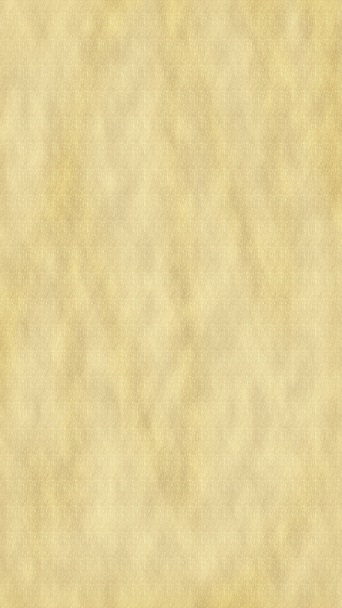
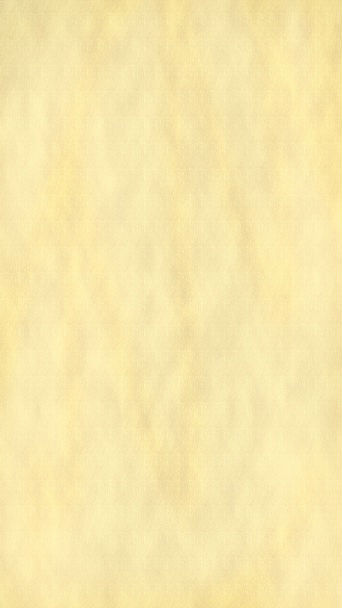
Match all buttons and lighten background

diff --git a/public_html/css/example/global.css b/public_html/css/example/global.css
@@ -13,7 +13,7 @@ body {
     -webkit-text-size-adjust:100%;
     -moz-text-size-adjust:100%;
     -ms-text-size-adjust:100%;
-	background-image: url("parchmentresize.jpg");
+	background-image: url("../../img/parchmentresize.jpg");
 	background-repeat: repeat;
 	background-position: center;
 	margin: 0 auto; 
@@ -474,7 +474,15 @@ div.textarea *{
    vertical-align: middle;
    margin: 2px 2px;
    }
-.but:hover {
+
+.but:disabled{
+   border-top-color: #5f4f1b;
+   background: #5f4f1b;
+   color: #ccc;
+
+}   
+   
+ .but:hover {
    border-top-color: #5f4f1b;
    background: #5f4f1b;
    color: #ccc;

diff --git a/public_html/inbox.php b/public_html/inbox.php
@@ -19,10 +19,10 @@
 		}else{
 			e.style.display = "block";
 		}
-		if(toggle.text != "[show]"){
-			toggle.text = "[show]";
+		if(toggle.text != "show"){
+			toggle.text = "show";
 		}else{
-			toggle.text = "[hide]";
+			toggle.text = "hide";
 			read($(toggle).parent().parent().attr("id"));
 		}
 	}
@@ -99,9 +99,9 @@
 	include "scripts/renderMsgList.php";	
 
 	if($_SESSION["username"]){
-		echo "<form method='GET' action='composemsg.php' style='display: inline; float:right; margin:0px'><button id='composeButton' type='submit'>Compose</button><input name='redirect' type='hidden' value='i'></form>";
-		echo "<button id='inboxButton' type='button' onClick='checkMessages(\"INBOX\")' disabled>Inbox</button>";
-		echo "<button id='sentButton' type='button' onClick='checkMessages(\"SENT\")'>Sent</button>";
+		echo "<form method='GET' action='composemsg.php' style='display: inline; float:right; margin:0px'><button class='but' id='composeButton' type='submit'>Compose</button><input name='redirect' type='hidden' value='i'></form>";
+		echo "<button class='but' id='inboxButton' type='button' onClick='checkMessages(\"INBOX\")' disabled>Inbox</button>";
+		echo "<button class='but' id='sentButton' type='button' onClick='checkMessages(\"SENT\")'>Sent</button>";
 		echo "<hr>";
 
 	}

diff --git a/public_html/scripts/renderMsgList.php b/public_html/scripts/renderMsgList.php
@@ -77,10 +77,10 @@
 				}
 				echo "<b style='padding-left: 10px'>Subject:</b>&nbsp".$value["subject"];
 				echo "<div class='listshowhide'>";
-				echo "<a href='#' onclick='toggle_vis(\"b".$value["id"]."\",this);' style='float: right;'>[show]</a>";
+				echo "<a class='button' href='#' onclick='toggle_vis(\"b".$value["id"]."\",this);' style='float: right;'>show</a>";
 				if($value["sender"] != "DungeonCrawlers" && $type != "SENT")
-					echo "<a class='replylink' href='composemsg.php?recipient=".$value["sender"]."&redirect=i'>[reply]</a>";
-				echo "<a href='#' onclick='del(".$value["id"].")' style='float: right;'>[delete]&nbsp</a>";
+					echo "<a class='button' style='float: right;' href='composemsg.php?recipient=".$value["sender"]."&redirect=i'>reply</a>";
+				echo "<a class='button' href='#' onclick='del(".$value["id"].")' style='float: right;'>delete&nbsp</a>";
 				echo "<p style='display:inline; color: grey'>".$value["timestamp"]."&nbsp</p>";
 				echo "</div>";
 				echo "<div class='msgbody' id='b".$value["id"]."' style='display: none'>";//use ID instead of the original count so that we can load via AJAX

diff --git a/public_html/contribute.php b/public_html/contribute.php
@@ -22,27 +22,6 @@
 		a {
 			cursor: pointer;
 		}
-		a.button {
-			margin: .3em;
-			padding: 0 .3em 0 .3em;
-			vertical-align: top;
-			background: #FFAD33;
-			border-radius: 10px;
-		}
-		a.button:hover {
-			margin: .3em;
-			padding: 0 .3em 0 .3em;
-			vertical-align: top;
-			background: #EC9C2E;
-			border-radius: 10px;
-		}
-		a.button:active {
-			margin: .3em;
-			padding: 0 .3em 0 .3em;
-			vertical-align: top;
-			background: #E8A643;
-			border-radius: 10px;
-		}
 		
 		p {
 			margin-top: .1em;
@@ -322,8 +301,8 @@
 		});
 	</script>
 	</br>
-		<button id="add_field" style="border-radius: 10px;" onclick="addField()">Add Field</button>
-		<div id="submit_button" style="display: inline-block;"><button id="submit_contribution" style="border-radius: 10px;" onclick="submit()">Submit</button></div>
+		<button class="but" id="add_field" style="border-radius: 10px;" onclick="addField()">Add Field</button>
+		<div id="submit_button" style="display: inline-block;"><button class="but" id="submit_contribution"  onclick="submit()">Submit</button></div>
 	</br>
 </div>
 </body>

diff --git a/public_html/search_results.php b/public_html/search_results.php
@@ -440,7 +440,7 @@
 	if(($offset + $resultLimit) < $resulttotal){
 
 		$csort = htmlspecialchars($_GET["csort"], ENT_QUOTES, "UTF-8");
-		echo "<a href='search_results.php?keywords=".$keywords."&csort=".$csort."&offset=".($offset + $resultLimit)."'>[next]</a>";
+		echo "<a class='button' href='search_results.php?keywords=".$keywords."&csort=".$csort."&offset=".($offset + $resultLimit)."'>next</a>";
 	}
 
 	echo "</div>";
@@ -551,7 +551,7 @@
 		if(($offset + $resultLimit) < $resulttotal){
 
 			$csort = htmlspecialchars($_GET["csort"], ENT_QUOTES, "UTF-8");
-			echo "<a href='search_results.php?keywords=".$keywords."&csort=".$csort."&offset=".($offset + $resultLimit)."'>[next]</a>";
+			echo "<a class='button' href='search_results.php?keywords=".$keywords."&csort=".$csort."&offset=".($offset + $resultLimit)."'>next</a>";
 		}
 
 		echo "</div>";

diff --git a/public_html/view_contribution_updateable.php b/public_html/view_contribution_updateable.php
@@ -628,9 +628,9 @@
 				}
 			echo "</select>";
 			if($enable_button)
-				echo "<button onclick='addContributionToCollection(".$id.")'>Add to Collection</button>";
+				echo "<button class='but' onclick='addContributionToCollection(".$id.")'>Add to Collection</button>";
 			else
-				echo "<button onclick='addContributionToCollection(".$id.")' disabled>Already Added</button>";
+				echo "<button class='but' style='border-top-color: #5f4f1b; background: #5f4f1b; color: #ccc;' onclick='addContributionToCollection(".$id.")' disabled>Already Added</button>";
 			echo "</div>";
 			echo "</span>";
 

diff --git a/public_html/composemsg.php b/public_html/composemsg.php
@@ -27,7 +27,7 @@
 			}
 			echo "<input type='text' name='msgsubject' placeholder='Message Subject' size='76' maxlength='255'></input><br>";
 			echo "<textarea name='msgbody' rows=7 cols=75 placeholder='Enter your message here' style='resize:none' maxlength='6000'></textarea><br>";	
-			echo "<input type='submit' value='Send'>";
+			echo "<input class='but' type='submit' value='Send'>";
 		
 			echo "</form>";
 
